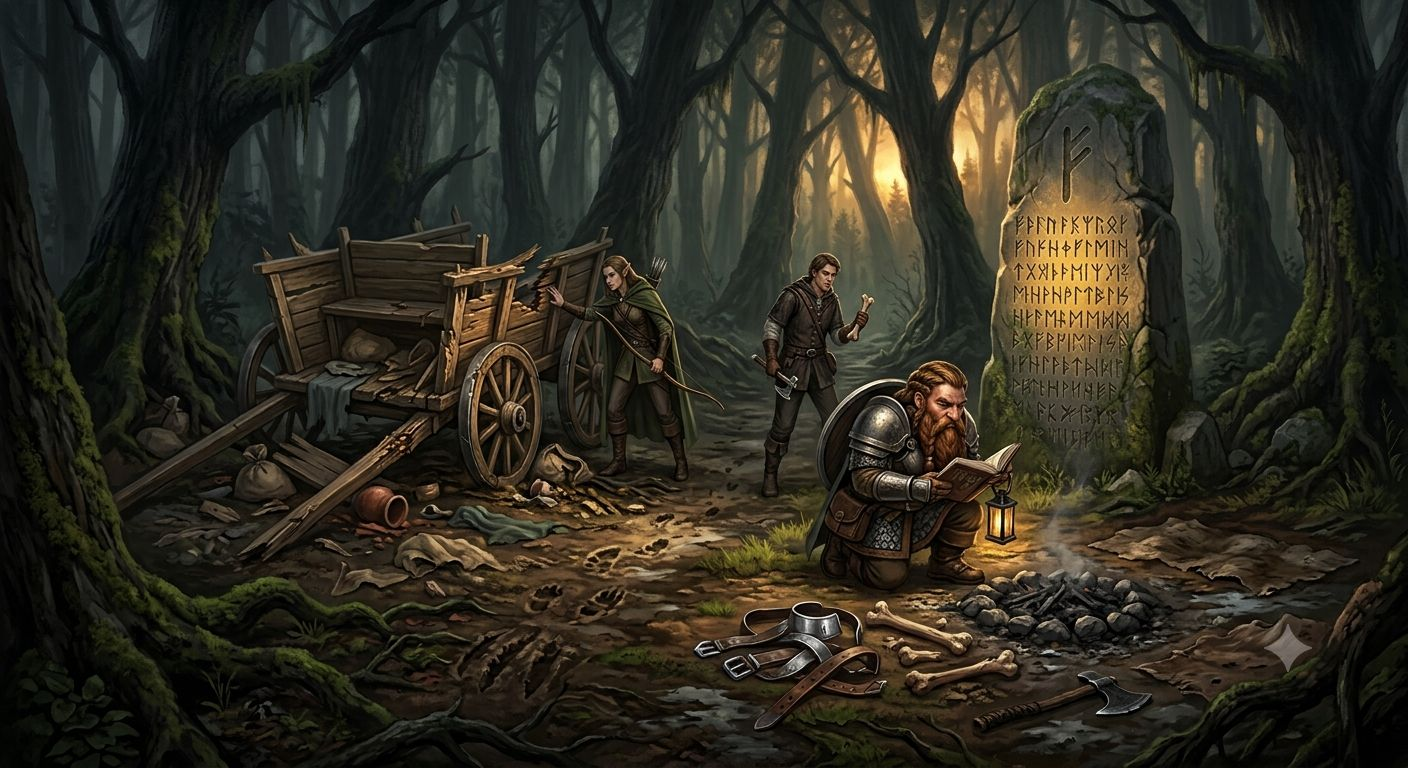
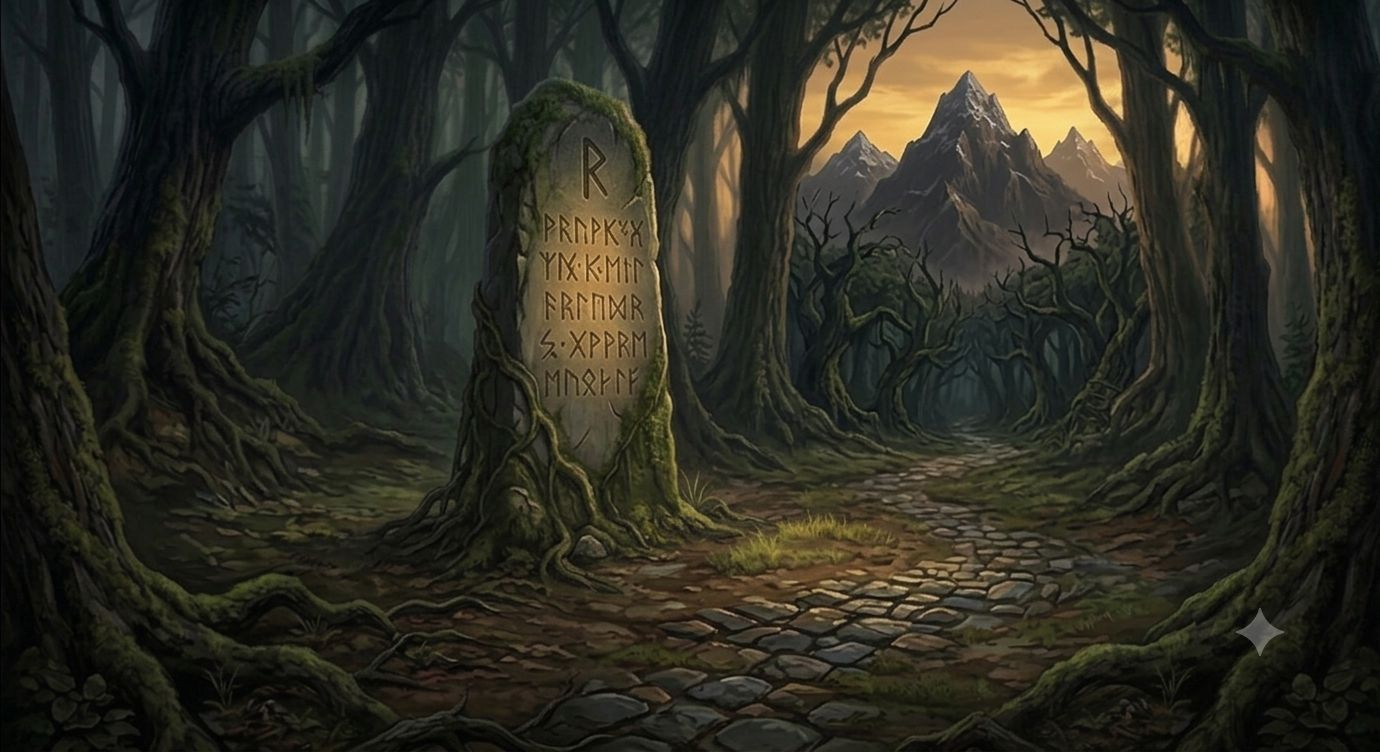
Shadows of blacksone keep modified

diff --git a/adventures/shadows-of-blackstone-keep/data.js b/adventures/shadows-of-blackstone-keep/data.js
@@ -17,9 +17,18 @@ window.RPG_HELPER.adventures.push({
     ],
     documents: [
         {label: 'Adventure (PDF)', href: 'adventures/shadows-of-blackstone-keep/docs/adventure.pdf'},
-        {label: 'Adventure – Monsters (PDF)', href: 'adventures/shadows-of-blackstone-keep/docs/adventure-monsters.pdf'},
-        {label: 'Adventure (DOCX)', href: 'adventures/shadows-of-blackstone-keep/docs/Shadows over Blackstone Keep.docx'},
-        {label: 'Adventure – Monsters (DOCX)', href: 'adventures/shadows-of-blackstone-keep/docs/Shadows over Blackstone Keep - Monsters.docx'}
+        {
+            label: 'Adventure – Monsters (PDF)',
+            href: 'adventures/shadows-of-blackstone-keep/docs/adventure-monsters.pdf'
+        },
+        {
+            label: 'Adventure (DOCX)',
+            href: 'adventures/shadows-of-blackstone-keep/docs/Shadows over Blackstone Keep.docx'
+        },
+        {
+            label: 'Adventure – Monsters (DOCX)',
+            href: 'adventures/shadows-of-blackstone-keep/docs/Shadows over Blackstone Keep - Monsters.docx'
+        }
     ],
     monsters: [
         'goblin-skirmisher',
@@ -49,12 +58,11 @@ window.RPG_HELPER.adventures.push({
                 'Village square. Burning wooden beams create lines of sight blockage. Choking smoke acts as light cover (+2 AC/Dex saves) if standing inside marked zones. One thatch-roof tavern stands mostly intact but burning at the base.',
             enemies: [
                 {id: 'goblin-skirmisher', count: 6},
-                {id: 'goblin-archer',count:3},
-                {id: 'worg'}
+                {id: 'goblin-archer', count: 3}
             ],
             notes: [
-                'The raiders are not slaughtering blindly — they target specific storehouses to steal supplies, maps of the Blackstone Valley, and an ancient dwarven key.',
-                'They have captured Elder Hadrick, the village blacksmith and the only living soul who can decipher the ancient dwarven milestones in the Blackwood Forest.'
+                'The raiders are not slaughtering blindly — they target specific storehouses to steal supplies and kidnap the Blacksmith',
+                'The have kidnapped Elder Hadrick Blacksmith owned the an ancient dwarven key.'
             ],
             tactics: [
                 'Hit-and-Run: the 3 Goblin Skirmishers dart out from burning storefronts, slash (+4, 1d6+2), then use Nimble Escape as a bonus action to Disengage or Hide behind debris.',
@@ -62,12 +70,14 @@ window.RPG_HELPER.adventures.push({
                 'Worg Chaos: the Worg surges into the frontline. Bite (+5, 2d6+3); on a hit the target must pass a DC 13 Strength save or be knocked prone. The moment a hero falls, the skirmishers swarm out of the smoke to strike with advantage.'
             ],
             aftermath:
-                'Once the raiders fall or scatter, the heroes find a crude map dropped by a fleeing goblin — a path deep into the Blackwood Forest toward "The Broken Bridge". A wounded, soot-stained ranger stumbles forward, coughing: "They dragged Elder Hadrick away... Kragath has already entered the valley. If he reaches the Heartforge with that key... we\'re finished."'
+                'Once the raiders fall or scatter, the heroes find a crude map dropped by a fleeing goblin — ' +
+                ' a path deep into the Blackwood Forest toward "The Dwarven Milestone". ' +
+                'A wounded, soot-stained ranger stumbles forward, coughing: "They dragged Elder Hadrick away... Kragath has already entered the valley. If he reaches the Heartforge with that key... we\'re finished."'
         },
         {
             id: 'scene-2',
             title: 'Through Blackwood Forest',
-            image: 'adventures/shadows-of-blackstone-keep/images/02_b_the_forest_english.jpg',
+            image: 'adventures/shadows-of-blackstone-keep/images/02_campsite.jpg',
             environment:
                 'Dense, dark foliage. The players track fresh bootprints and claw marks of the warband deeper into the woods.',
             notes: [
@@ -83,19 +93,23 @@ window.RPG_HELPER.adventures.push({
             notes: [
                 'Deep in the woods stand ancient, mossy stone monoliths carved with dwarven runes.',
                 'If a player reads Dwarvish (or checks the recovered village records), they can decipher the runes: "Beware the Heartforge\'s light; it warms the just, but burns the greedy."',
-                'This foreshadows the room mechanics of the Forge Locks puzzle and the Heartforge battle.'
-            ]
+                'This foreshadows the room mechanics of the Forge Locks puzzle and the Heartforge battle.',
+                'Once the party reads the runes, they are ambushed by a small warband.'
+            ],
+            enemies: [
+                {id: 'goblin-archer', count: 2},
+                {id: 'worg', count: 2}
+            ],
+            tactics: [
+                'Ambush: the warband hides in the shadows, waiting for the party to approach. When they do, the skirmishers attack with their bows, while the worgs charge in with their claws and teeth.'
+            ],
         },
         {
             id: 'scene-4',
-            title: 'The Broken Bridge',
-            image: 'adventures/shadows-of-blackstone-keep/images/03_brigde.jpg',
-            readAloud:
-                'The forest path ends at the edge of a massive, rocky gorge. A grand stone dwarven bridge once spanned the gap, but half of it has collapsed into a churning river hundreds of feet below. Across the remaining side waits a heavily armed hobgoblin blockade. Before combat, you overhear a tense argument — a goblin hexer shrilly berating a massive bugbear about the tactical importance of holding the defensive line, while the bugbear growls in frustration, eager to smash things.',
-            readAloudNo:
-                'Skogsstien ender ved randen av en mektig, klippefylt kløft. En storslått dvergbro av stein spente en gang over gapet, men deler har styrtet ned i en brusende elv, hundrevis av fot under. På motsatt side venter en tungt bevæpnet hobgoblinblokade. Før kampen bryter løs, overhører dere en anspent krangel – en goblinheks som skingrende skjeller ut en diger bugbear om hvor avgjørende det er å holde forsvarslinjen, mens bugbearen knurrer av frustrasjon, ivrig etter å knuse ting.',
-            environment:
-                'A narrow, stable stone path leading to a 15-foot gap over the gorge. Planks of wood, ropes, and crumbling stone pillars offer ways to cross or swing over. [Party Side] ===[15-ft Gap]=== [Hobgoblin Soldiers] === [Hexer / Bugbear]',
+            title: 'Blackstone Keep',
+            image: 'adventures/shadows-of-blackstone-keep/images/04_0_blackstone_keep.jpg',
+            readAloud: 'The winding mountain trail climbs steeply through the jagged peaks, culminating at the edge of a deep, misty gorge. Built directly into the sheer stone face of the mountain stands Blackstone Keep, an ancient and forgotten dwarven stronghold. Its imposing grey masonry merges seamlessly into the rock, dominated by a massive entrance that houses the grand central forge. Once a hub of roaring heat and industry, the forge now stands completely silent and dead—no smoke rises from its chimneys, and no fires illuminate its darkened interior. A magnificent stone bridge, ancient and worn, arches across the chasm toward the iron gates. A spiderweb of fractures splits the stone walkway, and a large chunk of its outer edge has collapsed into the abyss below, narrowing the path and turning the entrance into a hazardous bottleneck.',
+            readAloudNo: 'Den svingete fjellstien klatrer bratt gjennom de taggede tindene og ender ved kanten av en dyp, tåkefylt kløft. Bygget direkte inn i fjellets steile side står Blackstone Keep, en eldgammel og glemt dvergeborg. Det imponerende, grå murverket går i ett med fjellet, dominert av en massiv døråpning som rommer den store sentralsmia. Smia, som en gang var et sentrum for dundrende varme og industri, er nå fullstendig lydløs og død—ingen røyk stiger fra skorsteinene, og ingen flammer lyser opp det mørklagte indre. En storslått steinbro, gammel og slitt, strekker seg over avgrunnen mot jerportene. Et edderkoppspinn av sprekker deler steinveien, og et stort stykke av den ytre kanten har rast ned i dypet under, noe som gjør veien smal og tvinger alle som vil passere inn på en trang og risikabel sti.',
             enemies: [
                 {id: 'hobgoblin-soldier', count: 2},
                 {id: 'bugbear-brute'},
@@ -108,7 +122,8 @@ window.RPG_HELPER.adventures.push({
                 'Alternative: exploit faction tension. A clever illusion or shouted deception mimicking Kragath\'s voice can trick the impatient bugbear into charging across the unstable beams, breaking the hobgoblins\' shield synergy.'
             ],
             aftermath:
-                'Once defeated, the heroes find healing potions, an ancient dwarven map detailing the interior of Blackstone Keep, and a heavy iron key meant to open the keep\'s outer perimeter gate.'
+                'Once defeated, the heroes find healing potions'
+
         },
         {
             id: 'scene-5',
@@ -132,7 +147,7 @@ window.RPG_HELPER.adventures.push({
                 'The exit is a pair of towering, solid iron doors etched with massive gears. Four ancient dwarven stone wheels are built into the wall beside them, each carved with a glowing, mystical rune. Clues regarding the proper alignment are etched into the surrounding masonry.',
             readAloudNo:
                 'Utgangen er et par tårnhøye, massive jerndører, gravert med enorme tannhjul. Fire urgamle dverghjul av stein er murt inn i veggen ved siden av dem, hvert skåret med en glødende, mystisk rune. Ledetråder til riktig stilling er etset inn i den omliggende steinmuren.',
-            enemies: [{id: 'goblin-skirmisher', count: 2}],
+            enemies: [{id: 'goblin-skirmisher', count: 6}],
             notes: [
                 'Puzzle — The Forging Order. The four wheels read left to right. Correct order: Bellows (Wind), Flame (Fire), Iron (Earth), Quench (Water).',
                 'Clue (lintel inscription): "To wake the Heartforge, mimic the master smith\'s work. First, blast the coals with wind. Second, heat the coals with fire. Third, shape the heavy metal. Fourth, cool it in the deep waters."',
@@ -164,15 +179,24 @@ window.RPG_HELPER.adventures.push({
                 {id: 'goblin-hexer', count: 1, optional: true}
             ],
             notes: [
-                'Commander\'s Aura: Kragath\'s passive aura grants all allies within 30 ft a +1 bonus to hit.',
-                'Guardian Phalanx: the 2 Hobgoblin Soldiers lock shields directly in front of Kragath (AC 18, Shield Wall) to absorb attacks and block the party from rushing the warlord.',
-                'Phase 2 (Second Wind): the exact moment Kragath drops below 42 HP (half of his 85 maximum), he triggers Second Wind as a reaction — the Heartforge pulses and restores 20 HP.',
                 'The Heartforge Ember: once during the fight, Kragath slams a glowing crystal into the iron floor grates — a 15-ft cone of fire (DC 13 Dexterity save or 3d6 fire damage). Forces the players to scatter across the dangerous, narrow bridges.',
                 'Battlefield Events — Initiative Count 20, each round: R1 The Awakening (violent tremors; the chamber is difficult terrain except solid iron grates and main stone pillars). R2 Steam Eruption (burst pipes — a 10-ft wide line of total concealment). R3 Bridge Collapse / Battle Cry (the eastern iron walkway shears off into the lava; Kragath roars Battle Cry — all surviving goblins and hobgoblins take an out-of-turn movement to pin down the disoriented heroes).',
                 'Ending: when Kragath falls, his body slumps over the altar, fracturing the primary key inside the control mechanism. The Heartforge becomes highly volatile and self-destructs as lava channels overflow.',
                 'Escape: the party has exactly 5 rounds. Athletics to lift falling iron portcullises; Acrobatics to clear widening lava fissures and pull allies across. They burst through the outer gates just as the towers collapse in a cloud of dust and harmless magical sparks.',
                 'Reward: the sky clears and the sun sets peacefully over a saved valley. Elder Hadrick presents their due rewards, and the dwarven forge spirits bless each hero with a small magical gift — a +1 weapon, a protective charm, or a glowing heirloom shield.'
+            ],
+            tactics: [
+                'Commander\'s Aura: Kragath\'s passive aura grants all allies within 30 ft a +1 bonus to hit.',
+                'Guardian Phalanx: the 2 Hobgoblin Soldiers lock shields directly in front of Kragath (AC 18, Shield Wall) to absorb attacks and block the party from rushing the warlord.',
+                'Phase 2 (Second Wind): the exact moment Kragath drops below 42 HP (half of his 85 maximum), he triggers Second Wind as a reaction — the Heartforge pulses and restores 20 HP.',
             ]
+
+        },
+        {
+            id: 'monster-gallery',
+            title: 'Monster Gallery',
+            image: 'adventures/shadows-of-blackstone-keep/images/monster-gallery.jpg',
+            gallery: true
         }
     ]
 });

diff --git a/adventures/monsters.js b/adventures/monsters.js
@@ -10,7 +10,10 @@ window.RPG_HELPER.monsters = {
     speed: '30 ft',
     hit: '+4',
     damage: 'Scimitar 1d6+2',
-    special: 'Nimble Escape: can Hide or Disengage as a bonus action. Uses hit-and-run tactics.'
+    special: [
+      'Nimble Escape: can Hide or Disengage as a bonus action. Uses hit-and-run tactics.',
+      'If 2 or more, one can use dodge action, while other uses Nimble Escape.'
+    ]
   },
   'goblin-archer': {
     id: 'goblin-archer',
@@ -21,7 +24,10 @@ window.RPG_HELPER.monsters = {
     speed: '30 ft',
     hit: '+5',
     damage: 'Longbow 1d8+2',
-    special: 'Aimed Shot (5–6): deals an extra 1d6 damage. Stays at range and retreats if threatened.'
+    special: [
+      'Aimed Shot (5–6): deals an extra 1d6 damage.',
+      'Stays at range and retreats if threatened.'
+    ]
   },
   'goblin-hexer': {
     id: 'goblin-hexer',
@@ -32,7 +38,10 @@ window.RPG_HELPER.monsters = {
     speed: '30 ft',
     hit: '+5',
     damage: 'Hex Bolt 2d6',
-    special: 'Once each: Curse (next attack has disadvantage), Battle Chant (ally moves), Smoke Cloud (10-ft obscuring cloud).'
+    special: [
+      'Once each:',
+      'Curse (next attack has disadvantage), Battle Chant (ally moves), Smoke Cloud (10-ft obscuring cloud).'
+    ]
   },
   'worg': {
     id: 'worg',
@@ -76,7 +85,7 @@ window.RPG_HELPER.monsters = {
     speed: '30 ft',
     hit: '+5',
     damage: 'Longsword 1d8+3 (x2 attacks)',
-    special: 'Command (Bonus Action): one ally moves half speed, makes one attack, or gains +2 AC until next turn.'
+    special: ['Command (Bonus Action): one ally moves half speed, makes one attack, or gains +2 AC until next turn.']
   },
   'kragath-iron-fang': {
     id: 'kragath-iron-fang',
@@ -87,6 +96,10 @@ window.RPG_HELPER.monsters = {
     speed: '30 ft',
     hit: '+6',
     damage: 'Greatsword 2d6+4 (x2 attacks)',
-    special: 'Commander: allies gain +1 to hit. Second Wind: once below half HP, regain 20 HP. Battle Cry: once, all allies move or attack immediately.'
+    special: [
+      'Commander: allies gain +1 to hit.',
+      'Second Wind: once below half HP, regain 20 HP.',
+      'Battle Cry: once, all allies move or attack immediately.'
+    ]
   }
 };
